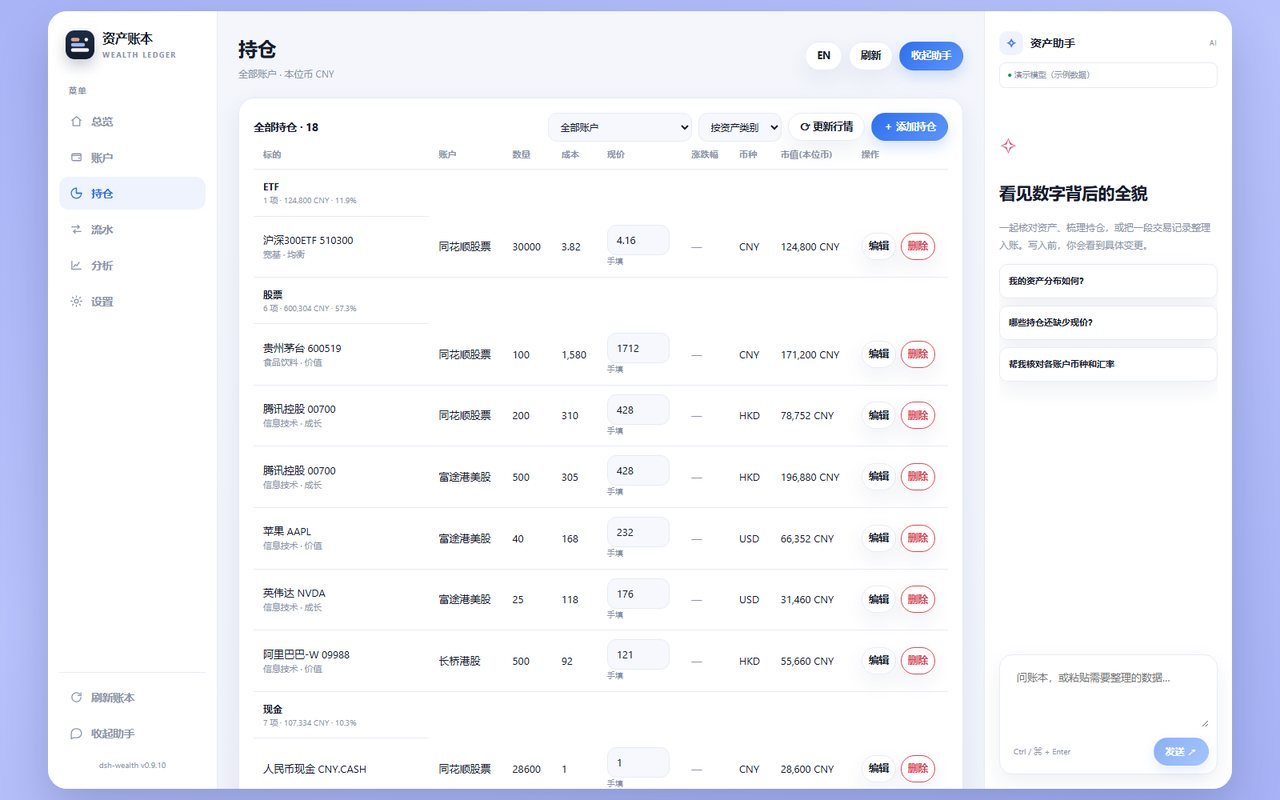
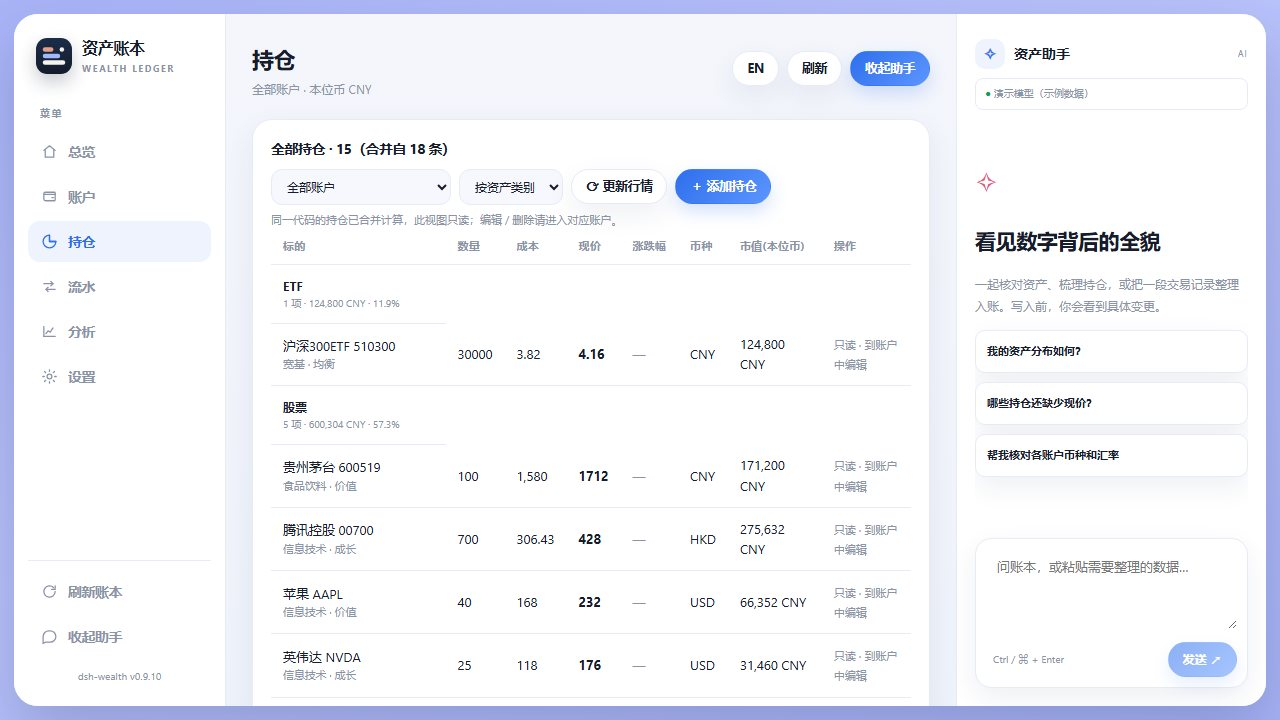
feat(holdings): merge same-code positions in the all-accounts view
The holdings page now renders one row per instrument identity (same
normalisation as symbols.mjs), summing quantities and weighting unit cost
by quantity, with the highest-priority price source shown once. Merged
rows are read-only - editing and deleting stay inside the specific
account - and the account column is gone since rows no longer belong to a
single account. Selecting one account keeps the per-holding editable
rows. Adds a client test for the merge (quantity, weighted cost, no
action buttons) and refreshes the holdings screenshot used by the README
and site.

diff --git a/client.js b/client.js
@@ -846,6 +846,25 @@ window.__ModuleLoader__.load({
     function assetLabel(cls) {
       return ({ stock: '股票', fund: '基金', etf: 'ETF', cash: '现金', bond: '债券', crypto: '加密资产', other: '其他' })[cls] || cls || '其他'
     }
+    // 与 symbols.mjs identityKey 同规则（客户端无模块导入，就地实现）：跨账户合并持仓按统一代码归并。
+    function identityKeyOf(ins) {
+      if (!ins) return ''
+      const raw = String(ins.symbol || '').trim()
+      const m = String(ins.market || '').trim().toUpperCase()
+      let symbol = raw
+      if (m === 'HK') {
+        const code = raw.replace(/^HK(EX)?[.:]/i, '').replace(/\.HK$/i, '').replace(/^0+/, '')
+        symbol = /^\d{1,5}$/.test(code) ? code.padStart(5, '0') : raw.toUpperCase()
+      } else if (m === 'CN' || m === 'FUND') {
+        const code = raw.replace(/^(SH|SZ)[.:]?/i, '')
+        symbol = /^\d{6}$/.test(code) ? code : raw
+      } else if (m === 'US') {
+        symbol = raw.replace(/^US[.:]/i, '').toUpperCase()
+      } else {
+        symbol = raw.toUpperCase()
+      }
+      return m + '|' + symbol
+    }
     function Settings({ t, state, call, busy, reload }) {
       const db = state.ledger, cur = db.baseCurrency
       const [baseSel, setBaseSel] = React.useState(cur)
@@ -1494,23 +1513,66 @@ window.__ModuleLoader__.load({
         if (group === 'market') return ins?.market || '—'
         return ho.currency || '—'
       }
+      // 全部账户视图按统一代码合并：同一标的一行（数量、成本合并计算），只读；
+      // 选定单个账户或按账户分组时退回逐条展示。修改 / 删除只能在具体账户里做。
+      const single = !!(accountId || acctFilter)
+      const merged = !single && group !== 'account'
+      const readOnly = !single
+      const entries = []
+      if (merged) {
+        const byKey = new Map()
+        for (const ho of list) {
+          const ins = insMap.get(ho.instrumentId)
+          const key = ins ? identityKeyOf(ins) : 'id:' + ho.instrumentId
+          let e = byKey.get(key)
+          if (!e) { e = { key, holdings: [], ins }; byKey.set(key, e); entries.push(e) }
+          e.holdings.push(ho)
+        }
+      } else {
+        for (const ho of list) entries.push({ key: 'h:' + ho.id, holdings: [ho], ins: insMap.get(ho.instrumentId) })
+      }
+      // 合并行取值：数量求和；成本按数量加权（任一条成本未知则整体未知，绝不编造）；
+      // 现价取估值链最高优先级来源（手填 > 行情 > 券商 > 成本），涨跌幅跟行情；市值按条分别估值后求和。
+      const entryView = (e) => {
+        const rows = e.holdings
+        const priced = rows.map(ho => {
+          const u = usedPrice(ho)
+          const rate = ho.currency === db.baseCurrency ? 1 : db.fx[ho.currency]
+          const mv = Number.isFinite(rate) && rate > 0 && u.price != null ? ho.qty * u.price * rate : null
+          return { ho, hand: u.hand, price: u.price, mv }
+        })
+        const qty = rows.reduce((s, x) => s + (Number(x.qty) || 0), 0)
+        const withCost = rows.filter(x => x.avgCost != null && Number.isFinite(Number(x.avgCost)))
+        const costQty = withCost.reduce((s, x) => s + (Number(x.qty) || 0), 0)
+        const avgCost = withCost.length === rows.length && costQty > 0 ? withCost.reduce((s, x) => s + (Number(x.qty) || 0) * Number(x.avgCost), 0) / costQty : null
+        let best = null
+        for (const p of [x => x.hand != null, x => x.ho.quotePrice != null, x => x.ho.sourcePrice != null]) { best = priced.find(p); if (best) break }
+        if (!best) best = priced[0]
+        const pct = rows.map(x => x.quoteChangePct).find(v => typeof v === 'number' && Number.isFinite(v))
+        const mvs = priced.map(x => x.mv).filter(v => v != null)
+        return {
+          ...e, priced, qty,
+          avgCost, best,
+          pct: pct == null ? null : pct,
+          currency: rows[0].currency,
+          mv: mvs.length ? mvs.reduce((s, x) => s + x, 0) : null,
+          accIds: [...new Set(rows.map(x => x.accountId))],
+        }
+      }
+      const views = entries.map(entryView)
       const groups = []
-      for (const ho of list) {
-        const key = groupKey(ho)
+      for (const v of views) {
+        const key = groupKey(v.holdings[0])
         let g = groups.find(x => x.key === key)
         if (!g) { g = { key, rows: [], mv: 0 }; groups.push(g) }
-        const ins = insMap.get(ho.instrumentId)
-        const rate = ho.currency === db.baseCurrency ? 1 : db.fx[ho.currency]
-        // 估值链：手填价 > 行情价 > 券商快照价 > 平均成本；全空时不计入（绝不按 0 计）。
-        const price = usedPrice(ho).price
-        if (Number.isFinite(rate) && rate > 0 && price != null) g.mv += ho.qty * price * rate
-        g.rows.push([ho, ins])
+        if (v.mv != null) g.mv += v.mv
+        g.rows.push(v)
       }
       const totalMv = groups.reduce((s, g) => s + g.mv, 0)
       return h('div', null,
         h('div', { style: T.card(t) },
           h('div', { style: { display: 'flex', justifyContent: 'space-between', alignItems: 'center', gap: 10, marginBottom: 8, flexWrap: 'wrap' } },
-            h('strong', null, (accountId ? '账户持仓' : '全部持仓') + ' · ' + list.length),
+            h('strong', null, (accountId ? '账户持仓' : '全部持仓') + ' · ' + views.length + (merged && views.length !== list.length ? '（合并自 ' + list.length + ' 条）' : '')),
             h('div', { style: { display: 'flex', gap: 8, alignItems: 'center', flexWrap: 'wrap' } },
               accountId ? null : h('select', { value: acctFilter, onChange: (e) => setAcctFilter(e.target.value), 'aria-label': '按账户筛选', style: { ...T.input(t), minHeight: 30, width: 180, fontSize: 12 } },
                 h('option', { value: '' }, '全部账户'),
@@ -1519,35 +1581,37 @@ window.__ModuleLoader__.load({
                 (accountId ? [['class', '按资产类别'], ['sector', '按行业'], ['style', '按风格'], ['market', '按市场'], ['currency', '按币种']] : [['class', '按资产类别'], ['account', '按账户'], ['sector', '按行业'], ['style', '按风格'], ['market', '按市场'], ['currency', '按币种']]).map(([v, n]) => h('option', { key: v, value: v }, n))),
               h('button', { style: T.btn(t, false), disabled: busy || quoting, onClick: refreshQuotes }, quoting ? '正在更新行情…' : '⟳ 更新行情'),
               h('button', { style: T.btn(t, true), disabled: busy || !db.accounts.length, onClick: () => open(blank()) }, '＋ 添加持仓'))),
+          readOnly ? h('div', { style: { fontSize: 11, color: t.sub, margin: '-2px 0 10px' } }, merged ? '同一代码的持仓已合并计算，此视图只读；编辑 / 删除请进入对应账户。' : '此视图只读；编辑 / 删除请进入对应账户。') : null,
           h('table', { style: { width: '100%', borderCollapse: 'collapse' } },
-            h('thead', null, h('tr', null, T.th('标的', t), accountId ? null : T.th('账户', t), T.th('数量', t), T.th('成本', t), T.th('现价', t), T.th('涨跌幅', t), T.th('币种', t), T.th('市值(本位币)', t), T.th('操作', t))),
-            h('tbody', null, list.length ? groups.map((g) => [
-              h('tr', { key: 'g:' + g.key }, T.td(h('span', { style: { fontWeight: 650, fontSize: 12 } }, g.key, h('small', { style: { display: 'block', color: t.sub, fontWeight: 400 } }, g.rows.length + ' 项 · ' + fmtMoney(g.mv, db.baseCurrency) + (totalMv ? ' · ' + (g.mv / totalMv * 100).toFixed(1) + '%' : ''))), t, { colSpan: accountId ? 8 : 9 })),
-              g.rows.map(([ho, ins]) => {
-                const acc = accMap.get(ho.accountId)
+            h('thead', null, h('tr', null, T.th('标的', t), T.th('数量', t), T.th('成本', t), T.th('现价', t), T.th('涨跌幅', t), T.th('币种', t), T.th('市值(本位币)', t), T.th('操作', t))),
+            h('tbody', null, views.length ? groups.map((g) => [
+              h('tr', { key: 'g:' + g.key }, T.td(h('span', { style: { fontWeight: 650, fontSize: 12 } }, g.key, h('small', { style: { display: 'block', color: t.sub, fontWeight: 400 } }, g.rows.length + ' 项 · ' + fmtMoney(g.mv, db.baseCurrency) + (totalMv ? ' · ' + (g.mv / totalMv * 100).toFixed(1) + '%' : ''))), t, { colSpan: 8 })),
+              g.rows.map((v) => {
+                const ho = v.holdings[0], ins = v.ins
                 // 估值链：手填价 > 行情价 > 券商快照价 > 平均成本；全空时市值为「—」，绝不按 0 计。
-                const { hand, price } = usedPrice(ho)
-                const rate = ho.currency === db.baseCurrency ? 1 : db.fx[ho.currency]
-                const mv = Number.isFinite(rate) && rate > 0 && price != null ? ho.qty * price * rate : null
-                const quoteTag = hand == null && ho.quotePrice != null ? h('small', { style: { display: 'block', color: t.sub, fontSize: 10 } }, (ho.quoteSource === 'tencent-fund' ? '净值' : '行情') + (ho.quoteAt ? ' ' + String(ho.quoteAt).slice(5, 10) : '')) : null
-                const sourceTag = hand == null && ho.quotePrice == null && ho.sourcePrice != null ? h('small', { style: { display: 'block', color: t.sub, fontSize: 10 } }, '券商价') : null
+                const { hand, price } = readOnly ? { hand: null, price: v.best.price } : usedPrice(ho)
+                const mv = v.mv
+                const quoteTag = hand == null && v.best.ho.quotePrice != null ? h('small', { style: { display: 'block', color: t.sub, fontSize: 10 } }, (v.best.ho.quoteSource === 'tencent-fund' ? '净值' : '行情') + (v.best.ho.quoteAt ? ' ' + String(v.best.ho.quoteAt).slice(5, 10) : '')) : null
+                const sourceTag = hand == null && v.best.ho.quotePrice == null && v.best.ho.sourcePrice != null ? h('small', { style: { display: 'block', color: t.sub, fontSize: 10 } }, '券商价') : null
                 const handTag = hand != null ? h('small', { style: { display: 'block', color: t.sub, fontSize: 10 } }, '手填') : null
-                const pct = typeof ho.quoteChangePct === 'number' && Number.isFinite(ho.quoteChangePct) ? ho.quoteChangePct : null
+                const pct = v.pct == null ? null : v.pct
                 const pctText = pct == null ? '—' : (pct > 0 ? '+' : '') + pct.toFixed(2) + '%'
-                return h('tr', { key: ho.id },
+                const qtyText = v.accIds.length > 1 ? String(Number(v.qty.toFixed(6))) : String(ho.qty)
+                return h('tr', { key: v.key },
                   T.td(h('span', null, (ins ? ins.name + ' ' + ins.symbol : ho.instrumentId), ins?.sector ? h('small', { style: { display: 'block', color: t.sub } }, ins.sector + (ins.style ? ' · ' + styleLabel(ins.style) : '')) : null), t),
-                  accountId ? null : T.td(acc ? acc.name : ho.accountId, t),
-                  T.td(String(ho.qty), t),
-                  T.td(fmtMoney(ho.avgCost), t),
+                  T.td(qtyText, t),
+                  T.td(readOnly && v.accIds.length > 1 && v.avgCost == null ? h('span', { title: '部分持仓成本未知' }, '—') : readOnly && v.accIds.length > 1 ? fmtMoney(v.avgCost) : fmtMoney(ho.avgCost), t),
                   T.td(h('span', null,
-                    hand != null
-                      ? h('input', { key: ho.id + ':' + hand, defaultValue: String(hand), placeholder: '手填', title: '手填价格（清空则改用行情）', onBlur: (e) => { const v = e.target.value; if (String(hand) !== v) call('price.set', { holdingId: ho.id, price: v === '' ? null : Number(v) }) }, style: { ...T.input(t), width: 78 } })
+                    !readOnly && hand != null
+                      ? h('input', { key: ho.id + ':' + hand, defaultValue: String(hand), placeholder: '手填', title: '手填价格（清空则改用行情）', onBlur: (e) => { const v2 = e.target.value; if (String(hand) !== v2) call('price.set', { holdingId: ho.id, price: v2 === '' ? null : Number(v2) }) }, style: { ...T.input(t), width: 78 } })
                       : h('span', { style: { fontWeight: 650, fontVariantNumeric: 'tabular-nums' } }, price == null ? '—' : String(price)),
                     handTag, quoteTag, sourceTag), t),
                   T.td(pctText, t, { color: pct == null || pct === 0 ? t.sub : pct > 0 ? t.green : t.red, fontWeight: 650, fontVariantNumeric: 'tabular-nums' }),
-                  T.td(ho.currency, t),
+                  T.td(v.currency, t),
                   T.td(fmtMoney(mv, db.baseCurrency), t),
-                  T.td(h('span', null,
+                  readOnly
+                    ? T.td(h('span', { style: { color: t.sub, fontSize: 11 } }, '只读 · 到账户中编辑'), t)
+                    : T.td(h('span', null,
                     h('button', { style: { ...T.btn(t, false), padding: '3px 8px', marginRight: 6 }, disabled: busy, onClick: () => open({ accountId: ho.accountId, symbol: ins?.symbol || '', name: ins?.name || '', market: ins?.market || 'CN', assetClass: ins?.assetClass || 'stock', sector: ins?.sector || '', style: ins?.style || '', qty: String(ho.qty), avgCost: String(ho.avgCost ?? ''), currency: ho.currency || '', manualPrice: hand == null ? '' : String(hand) }, true) }, '编辑'),
                     h('button', { style: { ...T.btn(t, false), padding: '3px 8px', borderColor: t.red, color: t.red }, disabled: busy, onClick: () => { if (window.confirm('删除该持仓？')) call('holding.remove', { id: ho.id }) } }, '删除')), t))
               }),

diff --git a/site/index.html b/site/index.html
@@ -187,9 +187,9 @@
     <div class="duo">
       <figure class="reveal">
         <div class="frame"><div class="chrome"><i></i><i></i><i></i><span>持仓</span></div>
-          <img src="assets/shots/holdings.jpg" alt="持仓页：按资产类别分组，标注行业与风格" width="1280" height="800" loading="lazy">
+          <img src="assets/shots/holdings.jpg?v=2" alt="持仓页：按资产类别分组，标注行业与风格，同一代码跨账户合并" width="1280" height="800" loading="lazy">
         </div>
-        <figcaption>按资产类别分组，逐行标出行业与风格。</figcaption>
+        <figcaption>按资产类别分组，逐行标出行业与风格；全部账户视图下同一代码自动合并为一行（只读）。</figcaption>
       </figure>
       <figure class="reveal">
         <div class="frame"><div class="chrome"><i></i><i></i><i></i><span>暗色模式</span></div>
